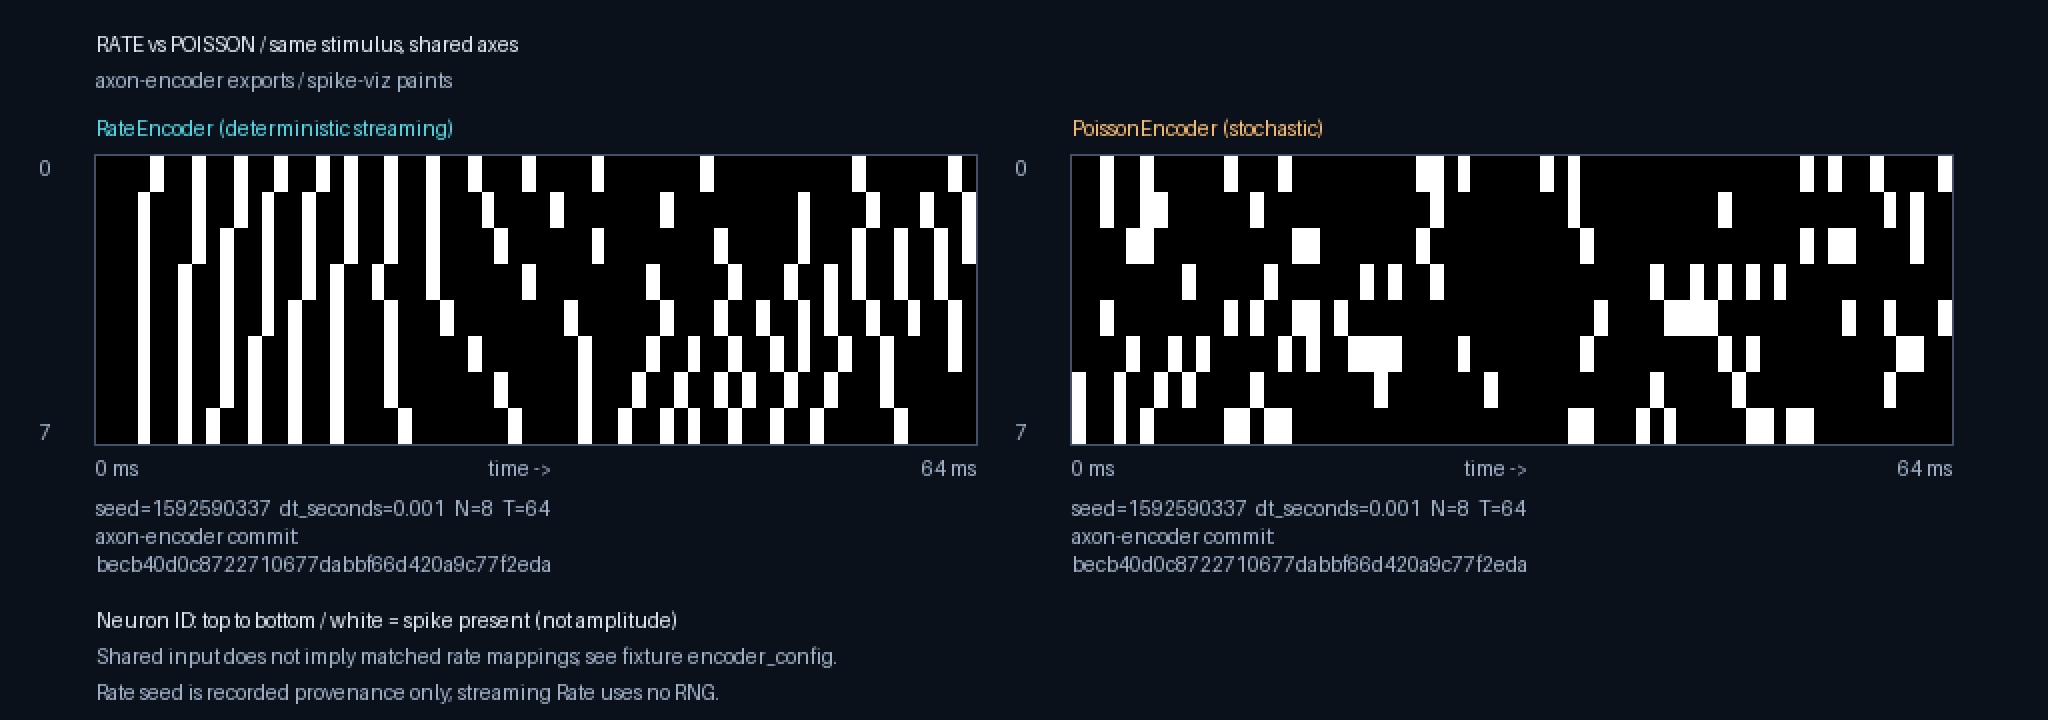
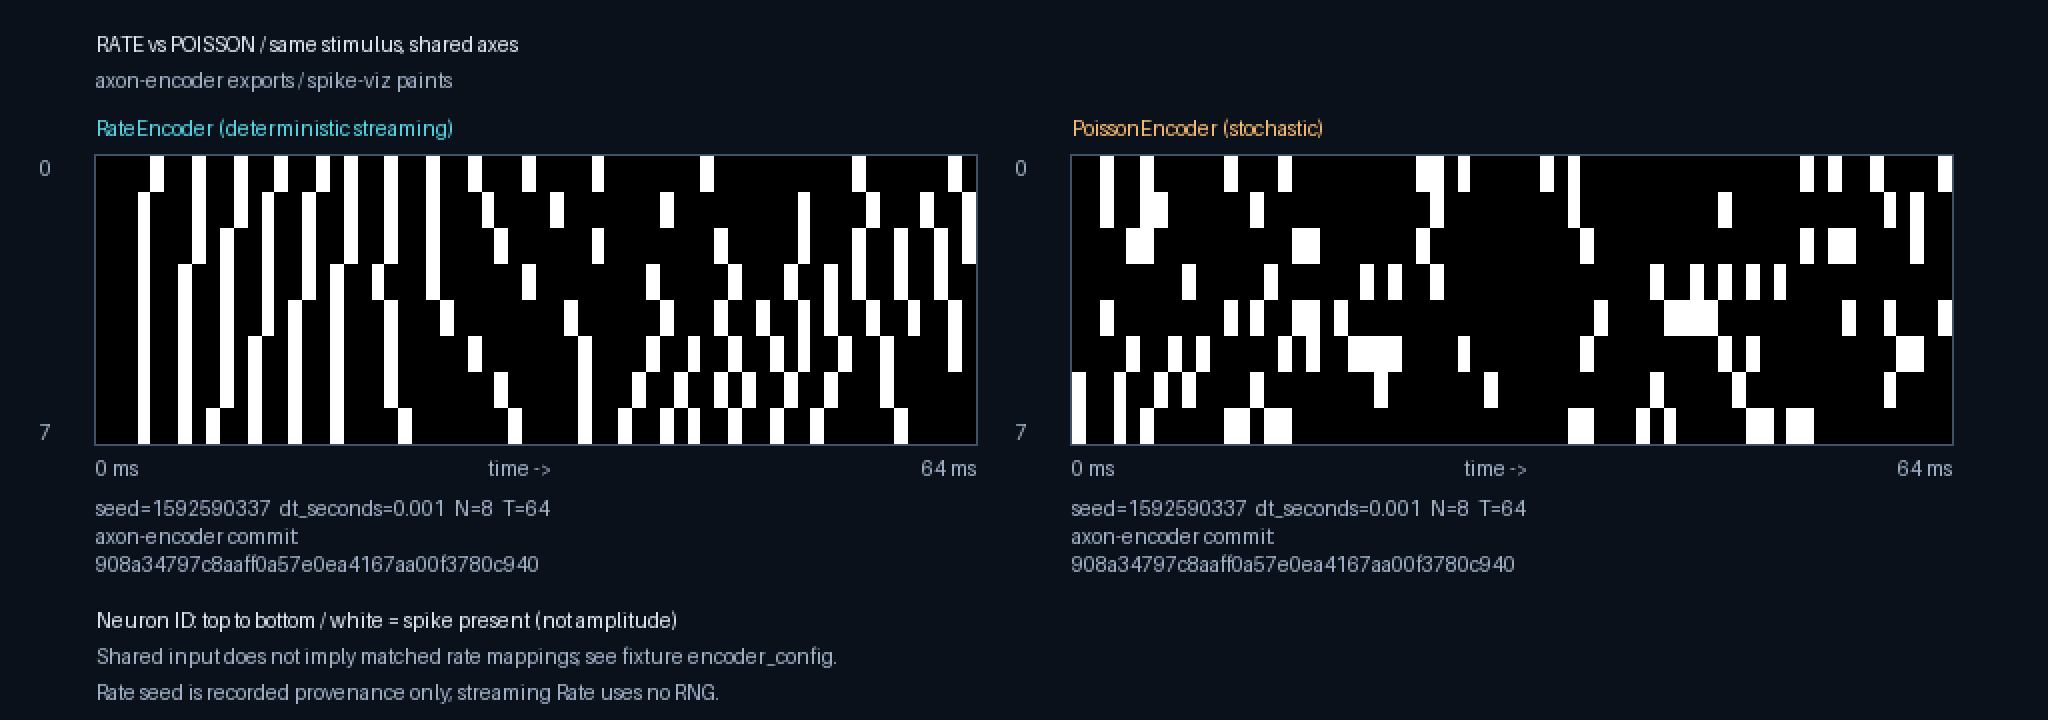
fix: follow the re-pinned axon-encoder SHA in the hero
Main re-pinned shared_sine_v1 to 908a3479. PR CI merges that pin, so the
caption test reads the fixture SHA, and the guide and PNG show the same
commit.

Changed region(s): [[0.5, 0.7639, 0.75, 0.7944], [0.0312, 0.7639, 0.2812, 0.7944]]

diff --git a/tests/test_hero.py b/tests/test_hero.py
@@ -35,7 +35,16 @@ def test_hero_saves_shared_scale_rasters_and_provenance(tmp_path: Path) -> None:
     assert "seed=1592590337" in caption
     assert "dt_seconds=0.001" in caption
     assert "N=8" in caption and "T=64" in caption
-    assert caption.count("becb40d0c8722710677dabbf66d420a9c77f2eda") == 2
+    # Echo the checked-in pin rather than a second hardcoded SHA, so a
+    # fixture re-pin does not leave the caption assertion behind.
+    rate_sha = json.loads((FIXTURES / "rate/shared_sine_v1/meta.json").read_text())[
+        "axon_encoder_git_sha"
+    ]
+    poisson_sha = json.loads(
+        (FIXTURES / "poisson/shared_sine_v1/meta.json").read_text()
+    )["axon_encoder_git_sha"]
+    assert rate_sha == poisson_sha
+    assert caption.count(rate_sha) == 2
     # Compare all observed spike bins, not decorative text or incidental layout.
     # Locate the black raster interiors in each half without fixing coordinates.
     sizes = []

diff --git a/docs/rate-vs-poisson-hero.md b/docs/rate-vs-poisson-hero.md
@@ -39,18 +39,18 @@ Use `"batch"` only for an actual batch Rate export, never for these fixtures.
 ## Exact fixture source
 
 Both `shared_sine_v1` cases come from axon-encoder 0.6.0 at
-[`becb40d0c8722710677dabbf66d420a9c77f2eda`](https://github.com/Limen-Neural/axon-encoder/commit/becb40d0c8722710677dabbf66d420a9c77f2eda),
+[`908a34797c8aaff0a57e0ea4167aa00f3780c940`](https://github.com/Limen-Neural/axon-encoder/commit/908a34797c8aaff0a57e0ea4167aa00f3780c940),
 generated by
-[`examples/export_spike_viz.rs`](https://github.com/Limen-Neural/axon-encoder/blob/becb40d0c8722710677dabbf66d420a9c77f2eda/examples/export_spike_viz.rs).
+[`examples/export_spike_viz.rs`](https://github.com/Limen-Neural/axon-encoder/blob/908a34797c8aaff0a57e0ea4167aa00f3780c940/examples/export_spike_viz.rs).
 
-- [Constants and shared stimulus](https://github.com/Limen-Neural/axon-encoder/blob/becb40d0c8722710677dabbf66d420a9c77f2eda/examples/export_spike_viz.rs#L32-L59):
+- [Constants and shared stimulus](https://github.com/Limen-Neural/axon-encoder/blob/908a34797c8aaff0a57e0ea4167aa00f3780c940/examples/export_spike_viz.rs#L32-L59):
   64 steps, 8 channels, `dt_seconds=0.001`, seed `0x5EED_0001`
   (1592590337), deterministic mixed sine/ramp input.
-- [Rate path](https://github.com/Limen-Neural/axon-encoder/blob/becb40d0c8722710677dabbf66d420a9c77f2eda/examples/export_spike_viz.rs#L86-L124):
+- [Rate path](https://github.com/Limen-Neural/axon-encoder/blob/908a34797c8aaff0a57e0ea4167aa00f3780c940/examples/export_spike_viz.rs#L86-L124):
   `drive` calls `RateEncoder::encode_step`, so this is **deterministic
   streaming**, not stochastic batch `encode`. The Rate seed is recorded
   provenance only; this path uses no RNG. Rate maps input 0–1 to 50–400 Hz.
-- [Poisson path](https://github.com/Limen-Neural/axon-encoder/blob/becb40d0c8722710677dabbf66d420a9c77f2eda/examples/export_spike_viz.rs#L169-L191):
+- [Poisson path](https://github.com/Limen-Neural/axon-encoder/blob/908a34797c8aaff0a57e0ea4167aa00f3780c940/examples/export_spike_viz.rs#L169-L191):
   `encode_rate_hz_step_with_rng` makes seeded stochastic draws in channel-major
   order, using `50 + 300 * stimulus[t][ch]` Hz (50–350 Hz).
 
@@ -63,9 +63,9 @@ To regenerate the underlying exports from the exact Rust source:
 
 ```bash
 git clone https://github.com/Limen-Neural/axon-encoder.git /tmp/axon-encoder-hero
-git -C /tmp/axon-encoder-hero checkout becb40d0c8722710677dabbf66d420a9c77f2eda
+git -C /tmp/axon-encoder-hero checkout 908a34797c8aaff0a57e0ea4167aa00f3780c940
 AXON_ENCODER_DIR=/tmp/axon-encoder-hero \
-AXON_ENCODER_GIT_SHA=becb40d0c8722710677dabbf66d420a9c77f2eda \
+AXON_ENCODER_GIT_SHA=908a34797c8aaff0a57e0ea4167aa00f3780c940 \
   scripts/generate_fixtures.sh
 ```
 
